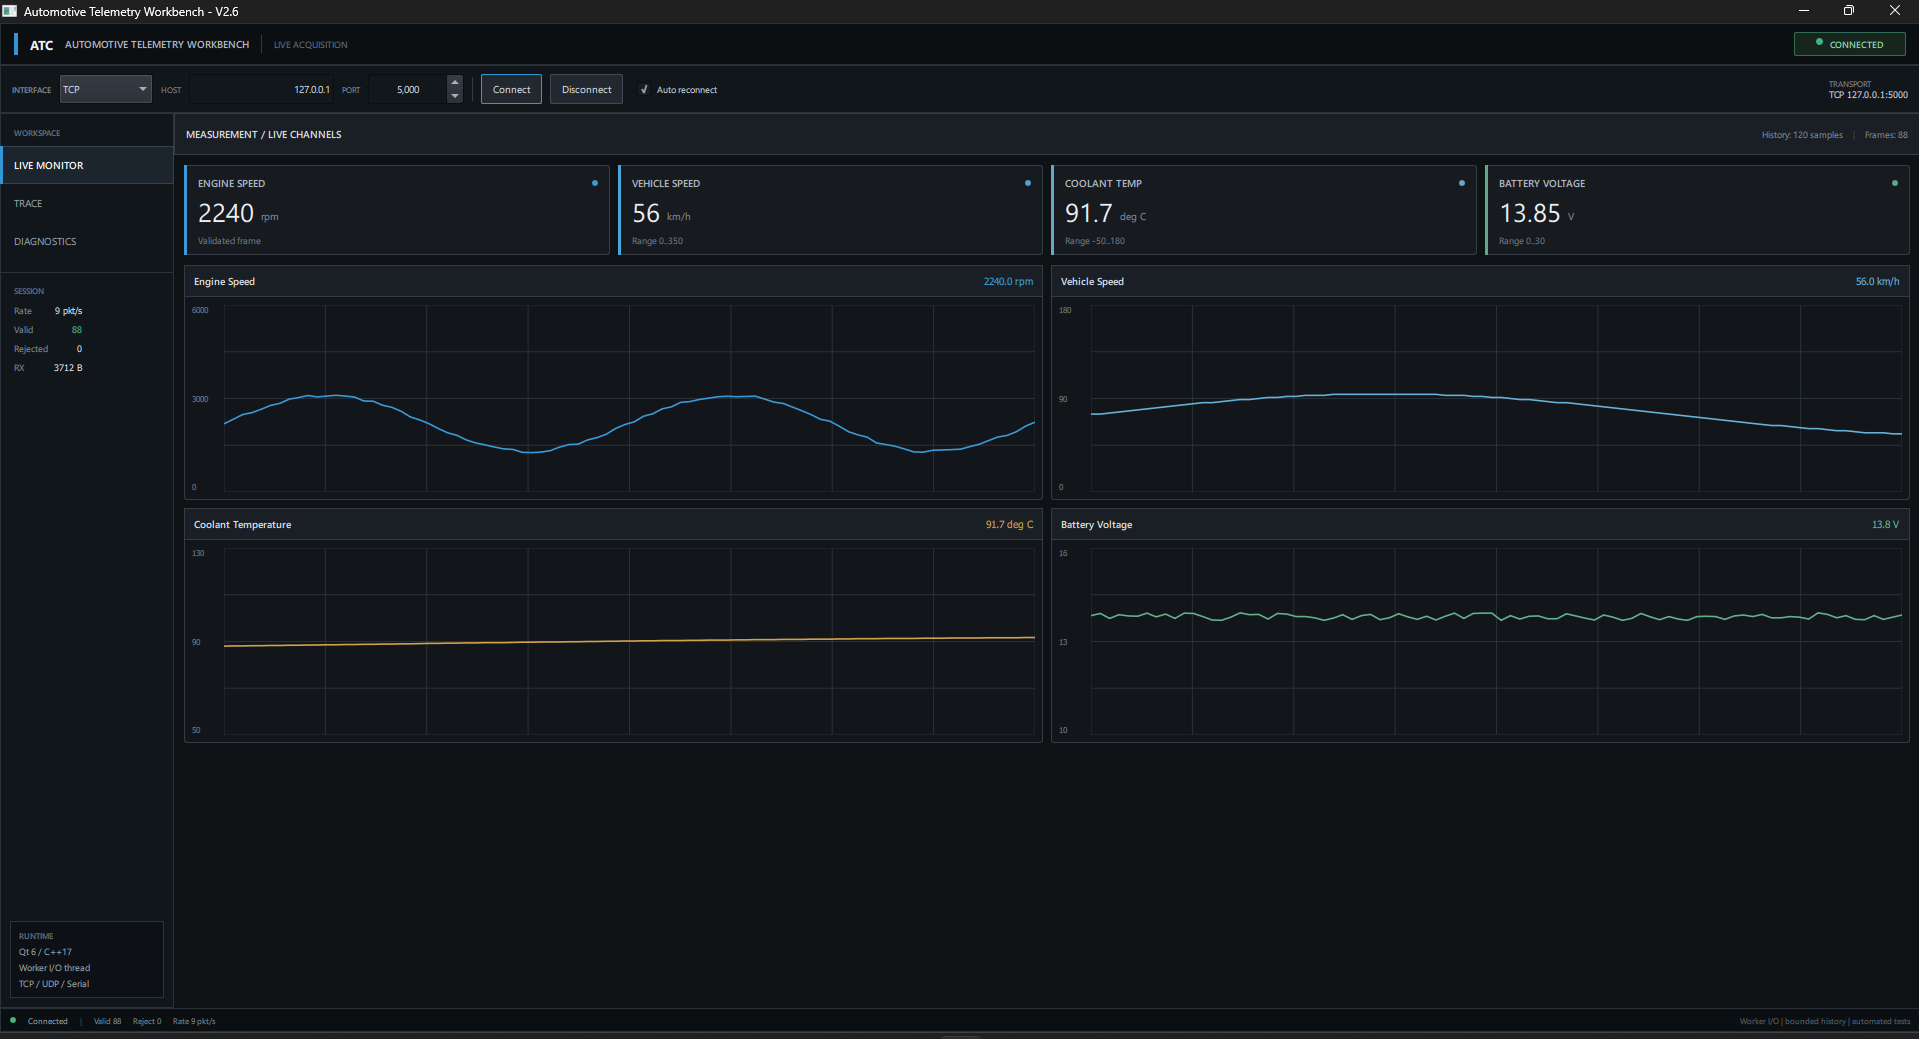
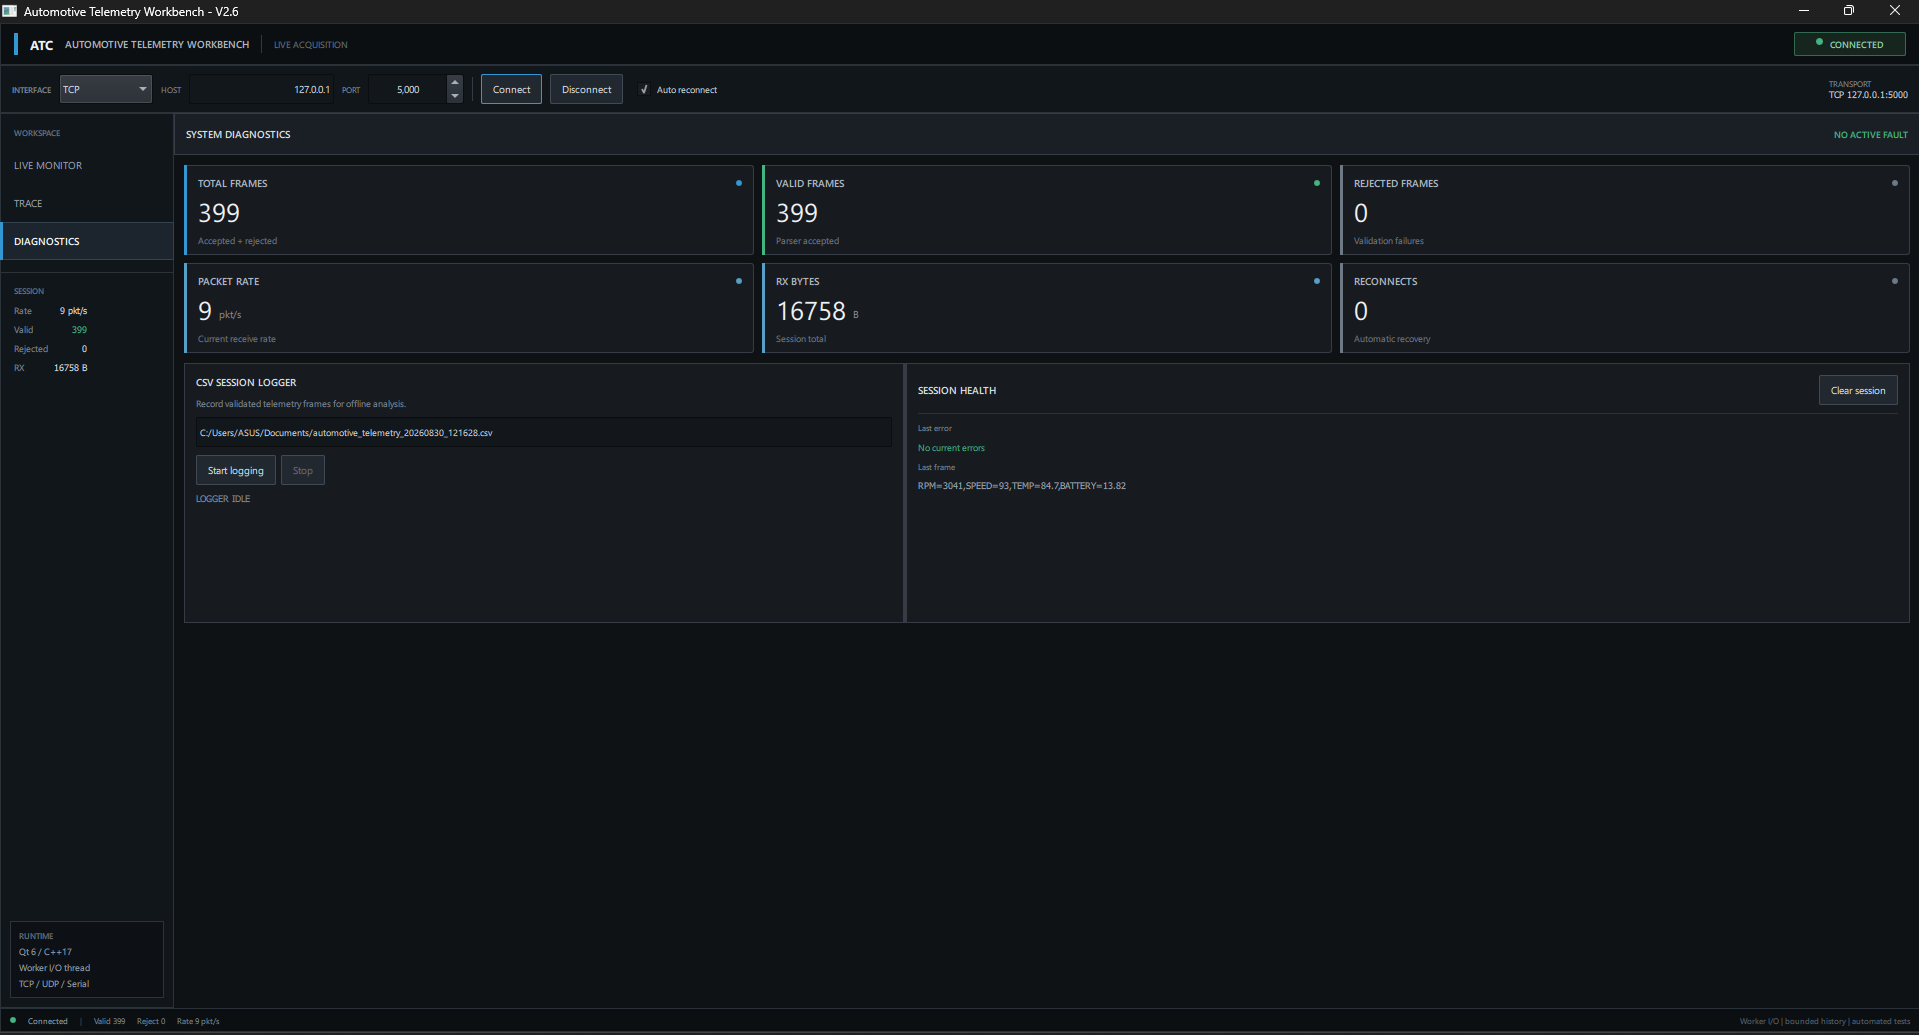
release: finalize AXIOM v2.6.1 presentation

diff --git a/README.md b/README.md
@@ -1,13 +1,14 @@
 # AXIOM Automotive Telemetry Workbench
 
-A modern C++17 / Qt 6 engineering workbench for real-time automotive-style telemetry acquisition, trace inspection, diagnostics, logging, transport testing, and automated verification.
+**Real-time telemetry acquisition, trace inspection, diagnostics, logging, and transport testing in C++17 / Qt 6.**
 
 [![CI](https://github.com/amirhqi/axiom-automotive-telemetry/actions/workflows/ci.yml/badge.svg)](https://github.com/amirhqi/axiom-automotive-telemetry/actions/workflows/ci.yml)
-[![Release](https://img.shields.io/github/v/release/amirhqi/axiom-automotive-telemetry)](https://github.com/amirhqi/axiom-automotive-telemetry/releases)
+[![Latest Release](https://img.shields.io/github/v/release/amirhqi/axiom-automotive-telemetry?display_name=tag)](https://github.com/amirhqi/axiom-automotive-telemetry/releases/latest)
 ![C++17](https://img.shields.io/badge/C%2B%2B-17-00599C)
-![Qt 6](https://img.shields.io/badge/Qt-6-41CD52)
+![Qt](https://img.shields.io/badge/Qt-6-41CD52)
+![Platform](https://img.shields.io/badge/platform-Windows%20%7C%20Linux-lightgrey)
 
-## Product Preview
+## Preview
 
 ### Live Monitor
 
@@ -21,110 +22,73 @@ A modern C++17 / Qt 6 engineering workbench for real-time automotive-style telem
 
 ![AXIOM Diagnostics](docs/images/diagnostics.png)
 
-## What is AXIOM?
+## Overview
 
-AXIOM is a desktop telemetry and diagnostics application designed around the same engineering concerns that appear in hardware-facing and automotive software:
-
-- reliable asynchronous I/O
-- clear separation of transport, parsing, state, and presentation
-- non-blocking UI architecture
-- malformed-frame handling
-- reconnect behavior
-- observability through live data, trace, and diagnostics
-- reproducible automated tests
-
-The name **AXIOM** reflects the idea of turning raw signals into trusted engineering information:
+AXIOM is an engineering telemetry workbench designed around the same problems found in hardware-facing and automotive applications: asynchronous I/O, stream framing, validation, reconnect behavior, logging, diagnostics, responsive UI design, and automated verification.
 
 **Acquire -> Validate -> Observe -> Diagnose**
 
-## Core Features
+### Core capabilities
 
-- C++17
-- Qt 6 / Qt Quick / QML
-- TCP transport
-- UDP transport
-- Serial transport
-- dedicated worker-thread I/O
+- C++17 backend
+- Qt 6 / Qt Quick / QML UI
+- TCP, UDP, and Serial transports
+- worker-thread I/O architecture
 - TCP fragmentation-safe receive buffering
-- frame validation and rejection counters
-- automatic reconnect with backoff
-- Live Monitor workspace
-- Trace workspace
-- Diagnostics workspace
-- CSV session logging
-- fault-injection simulator
-- unit tests
-- TCP integration tests
-- UDP integration tests
-- functional smoke tests
-- CMake / Ninja workflow
-- Embedded Linux / ARM64 / Yocto scaffolding
+- packet/frame validation and rejection counters
+- reconnect handling
+- live telemetry visualization
+- raw frame trace
+- diagnostics and session statistics
+- CSV logging
+- deterministic fault-injection simulator
+- unit, integration, and functional smoke tests
+- CMake/Ninja build workflow
+- Embedded Linux, ARM64, and Yocto scaffolding
 
 ## Architecture
 
 ```mermaid
 flowchart LR
-    Device[ECU / MCU / Simulator] -->|TCP / UDP / Serial| Worker[TelemetryWorker]
-    Worker --> Buffer[Receive Buffer]
-    Buffer --> Parser[PacketParser]
-    Parser --> Controller[TelemetryController]
-    Controller --> UI[Qt Quick / QML]
-    Controller --> Logger[CSV Logger]
+    A[ECU / MCU / Simulator] -->|TCP / UDP / Serial| B[TelemetryWorker]
+    B --> C[Receive Buffer]
+    C --> D[PacketParser]
+    D --> E[TelemetryController]
+    E --> F[Qt Quick / QML]
+    E --> G[CSV Logger]
 ```
 
-The GUI remains on the Qt main thread. I/O and connection lifecycle are handled through a dedicated worker-thread design so slow or bursty transport activity does not block the user interface.
+The Qt GUI stays on the main thread while transport and connection work are handled separately, helping keep rendering and interaction responsive during I/O activity.
 
-See [Architecture](docs/ARCHITECTURE.md).
+See [Architecture](docs/ARCHITECTURE.md) and [Design Decisions](docs/DESIGN_DECISIONS.md).
 
-## Validation
+## Download
 
-The current Windows development build has passed:
+### Windows Installer — recommended
 
-```text
-PacketParserTests       PASSED
-TcpIntegrationTests     PASSED
-UdpIntegrationTests     PASSED
-CsvLoggerTests          PASSED
-FunctionalSmokeTests    PASSED
-
-5/5 automated test targets passed
-```
-
-## Download for Windows
-
-### Recommended: Installer
-
-Download:
-
-**AXIOM-v2.6.1-Windows-x64-Setup.exe**
+Download **AXIOM-v2.6.1-Windows-x64-Setup.exe** from the [latest release](https://github.com/amirhqi/axiom-automotive-telemetry/releases/latest).
 
 Install it normally and launch AXIOM from the Start menu.
 
-### Portable
+### Windows Portable
 
-Download:
-
-**AXIOM-v2.6.1-Windows-x64-Portable.zip**
-
-Extract the complete archive and run:
+Download **AXIOM-v2.6.1-Windows-x64-Portable.zip**, extract the entire archive, then run:
 
 ```text
 AxiomTelemetryWorkbench.exe
 ```
 
-Qt Creator and the Qt SDK are not required for either Windows package.
-
-[Download the latest release](https://github.com/amirhqi/axiom-automotive-telemetry/releases/latest)
+Qt Creator and the Qt SDK are **not required** to run either binary package.
 
 ## Quick Demo
 
-Start the simulator:
+Run:
 
 ```bash
 python tools/simulator.py
 ```
 
-Then connect AXIOM using:
+Then connect with:
 
 ```text
 Transport: TCP
@@ -141,7 +105,32 @@ python tools/simulator.py --disconnect-every 5
 python tools/simulator.py --rate 500 --fault-rate 0.02
 ```
 
+## Tests
+
+The project includes:
+
+- `PacketParserTests`
+- `TcpIntegrationTests`
+- `UdpIntegrationTests`
+- `CsvLoggerTests`
+- `FunctionalSmokeTests`
+
+Latest validated local Windows run: **5/5 test targets passed.**
+
+Run them with:
+
+```bash
+ctest --test-dir build --output-on-failure
+```
+
 ## Build from Source
+
+Requirements:
+
+- Qt 6.11.x
+- C++17 compiler
+- CMake
+- Ninja or another supported CMake generator
 
 ```bash
 cmake -S . -B build -DCMAKE_BUILD_TYPE=Debug -DBUILD_TESTING=ON
@@ -149,44 +138,45 @@ cmake --build build --parallel
 ctest --test-dir build --output-on-failure
 ```
 
-## Repository Layout
+See [Building](docs/BUILDING.md).
+
+## Repository Structure
 
 ```text
-.github/          CI and repository templates
-assets/           branding assets
-benchmarks/       benchmark code
-cmake/            CMake toolchains
-docs/             technical documentation and screenshots
-qml/              Qt Quick UI
-scripts/          build/test helpers
-src/              C++ source
-tests/            automated tests
-tools/            simulators and utilities
-yocto/            Embedded Linux / Yocto scaffold
+.github/        CI and repository templates
+assets/         application branding assets
+benchmarks/     benchmark code
+cmake/          toolchain files
+docs/           architecture, build, testing, protocol and screenshots
+qml/            Qt Quick UI
+scripts/        build/test helpers
+src/            C++ application source
+tests/          automated tests
+tools/          simulators and utilities
+yocto/          Embedded Linux / Yocto scaffold
 ```
 
 ## Documentation
 
 - [Architecture](docs/ARCHITECTURE.md)
-- [Design Decisions](docs/DESIGN_DECISIONS.md)
+- [Design decisions](docs/DESIGN_DECISIONS.md)
 - [Protocol](docs/PROTOCOL.md)
 - [Building](docs/BUILDING.md)
 - [Testing](docs/TESTING.md)
 - [Distribution](docs/DISTRIBUTION.md)
+- [Embedded Linux](docs/EMBEDDED_LINUX.md)
 - [Roadmap](docs/ROADMAP.md)
 - [Contributing](CONTRIBUTING.md)
 - [Security](SECURITY.md)
 - [Changelog](CHANGELOG.md)
 
-## Scope
+## Project Scope
 
-AXIOM is an engineering portfolio project and experimental telemetry platform.
-
-It is **not** a safety-certified ECU, ISO 26262 component, or certified production-vehicle diagnostic product.
+AXIOM is an engineering portfolio and experimental telemetry project. It is **not** a safety-certified ECU, ISO 26262 component, or certified production-vehicle diagnostic tool.
 
 ## Author
 
-Designed and developed by **Amirhossein Haghi**.
+**Amirhossein Haghi**
 
 ## License
 

diff --git a/docs/DISTRIBUTION.md b/docs/DISTRIBUTION.md
@@ -1,0 +1,27 @@
+# Distribution
+
+AXIOM is distributed for Windows in two forms.
+
+## Installer
+
+The recommended package for ordinary users is:
+
+`AXIOM-v2.6.1-Windows-x64-Setup.exe`
+
+It installs the application for the current user and creates a Start menu entry.
+
+## Portable
+
+The portable package is:
+
+`AXIOM-v2.6.1-Windows-x64-Portable.zip`
+
+Extract the complete archive and run `AxiomTelemetryWorkbench.exe`.
+
+The executable is dynamically linked to Qt. The portable directory therefore includes the Qt runtime libraries, QML modules, platform plugins, and MinGW runtime required by the application.
+
+Qt Creator and the Qt SDK are not required on a computer that is only running the packaged application.
+
+## Source code
+
+The Git repository contains AXIOM source code. The Qt SDK itself is intentionally not committed to the repository.
